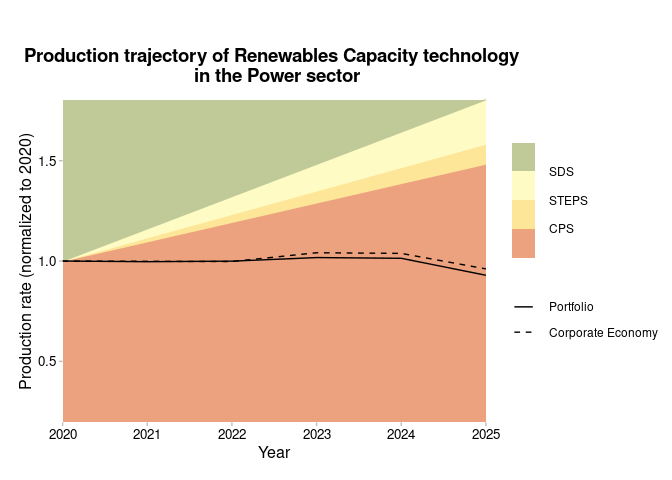
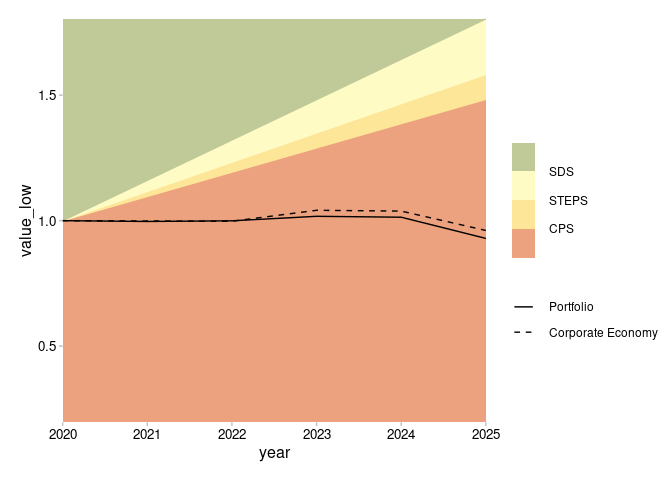
Update README

diff --git a/README.md b/README.md
@@ -35,6 +35,15 @@ errors?](https://gist.github.com/maurolepore/a0187be9d40aee95a43f20a85f4caed6#in
 ## Example
 
 ``` r
+library(tidyverse)
+#> ── Attaching packages ─────────────────────────────────────── tidyverse 1.3.0 ──
+#> ✓ ggplot2 3.3.3     ✓ purrr   0.3.4
+#> ✓ tibble  3.1.0     ✓ dplyr   1.0.5
+#> ✓ tidyr   1.1.3     ✓ stringr 1.4.0
+#> ✓ readr   1.4.0     ✓ forcats 0.5.1
+#> ── Conflicts ────────────────────────────────────────── tidyverse_conflicts() ──
+#> x dplyr::filter() masks stats::filter()
+#> x dplyr::lag()    masks stats::lag()
 library(r2dii.plot.static)
 ```
 
@@ -43,7 +52,6 @@ library(r2dii.plot.static)
     data in banks’ format.
 
 ``` r
-example_data <- example_data
 example_data <- process_input_data(example_data)
 ```
 
@@ -52,38 +60,46 @@ example_data <- process_input_data(example_data)
 
 ``` r
 data_trajectory <- prepare_for_trajectory_chart(
-  example_data, 
-  sector_filter = "power", 
+  example_data,
+  sector_filter = "power",
   technology_filter = "renewablescap",
-  region_filter = "global", 
+  region_filter = "global",
   scenario_source_filter = "demo_2020",
-  value_name = "production", 
+  value_name = "production",
   end_year_filter = 2025,
   normalize_to_start_year = TRUE
 )
 
-scenario_specs <- dplyr::tibble(
+scenario_specs <- tibble(
   scenario = c("sds", "sps", "cps", "worse"),
   color = c("#9CAB7C", "#FFFFCC", "#FDE291", "#E07B73"),
   label = c("SDS", "STEPS", "CPS", "worse")
 )
 
-main_line_metric <- dplyr::tibble(metric = "projected", label = "Portfolio")
-additional_line_metrics <- data.frame(
+main_line_metric <- tibble(
+  metric = "projected",
+  label = "Portfolio"
+)
+
+additional_line_metrics <- tibble(
   metric = "corporate_economy",
   label = "Corporate Economy"
 )
 
-plot <- plot_trajectory(data_trajectory,
-  plot_title = "Production trajectory of Renewables Capacity technology \n in the Power sector",
-  x_title = "Year", y_title = "Production rate (normalized to 2020)",
+plot_trajectory(
+  data_trajectory,
   scenario_specs_good_to_bad = scenario_specs,
-  main_line_metric, additional_line_metrics
-)
+  main_line_metric = main_line_metric,
+  additional_line_metrics = additional_line_metrics
+) +
+  labs(
+    title = "Production trajectory",
+    subtitle = "Renewables Capacity technology in the Power, sector",
+    x = "Year",
+    y = "Production rate (normalized to 2020)"
+  )
 #> Warning: partial match of 'height' to 'heights'
 #> Warning: partial match of 'width' to 'widths'
-
-plot
 ```
 
 <img src="man/figures/README-unnamed-chunk-4-1.png" width="100%" style="display: block; margin: auto auto auto 0;" />
@@ -95,47 +111,59 @@ plot
 -   `plot_techmix()` create a techmix chart in a ggplot object.
 
 ``` r
-data_techmix_power <- prepare_for_techmix_chart(example_data,
+data_techmix_power <- prepare_for_techmix_chart(
+  example_data,
   sector_filter = "power",
-  years_filter = c(2020, 2025), region_filter = "global",
+  years_filter = c(2020, 2025),
+  region_filter = "global",
   scenario_source_filter = "demo_2020",
-  scenario_filter = "sds", value_name = "technology_share"
+  scenario_filter = "sds",
+  value_name = "technology_share"
 )
 
 tech_colors_power <- get_r2dii_technology_colours("power")
-bars_labels_specs <- dplyr::tibble(
+bars_labels_specs <- tibble(
   metric_type = c(
-    "portfolio_2020", "benchmark_2020", "portfolio_2025",
-    "benchmark_2025", "scenario_2025"
+    "portfolio_2020",
+    "benchmark_2020",
+    "portfolio_2025",
+    "benchmark_2025",
+    "scenario_2025"
   ),
   label = c(
-    "Portfolio 2020", "Benchmark 2020", "Portfolio 2025",
-    "Benchmark 2025", "Target SDS 2025"
+    "Portfolio 2020",
+    "Benchmark 2020",
+    "Portfolio 2025",
+    "Benchmark 2025",
+    "Target SDS 2025"
   )
 )
 
-plot_techmix_power <- plot_techmix(data_techmix_power,
+plot_techmix(
+  data_techmix_power,
   plot_title = "Technology mix for the Power sector",
   show_legend = TRUE,
-  tech_colors_power,
-  bars_labels_specs
+  df_tech_colours = tech_colors_power,
+  df_bar_specs = bars_labels_specs
 )
-plot_techmix_power
 ```
 
 <img src="man/figures/README-unnamed-chunk-5-1.png" width="100%" style="display: block; margin: auto auto auto 0;" />
 
 ``` r
-power_colors_custom <- dplyr::tibble(
+power_colors_custom <- tibble(
   technology = c("coalcap", "oilcap", "gascap", "nuclearcap", "hydrocap", "renewablescap"),
   label = c("Coal Capacity", "Oil Capacity", "Gas Capacity", "Nuclear Capacity", "Hydro Capacity", "Renewables Capacity"),
   colour = c("black", "brown", "grey", "red", "blue", "green4")
 )
 
-plot_techmix_custom_col <- plot_techmix(data_techmix_power, "Technology mix for the Power sector",
-  show_legend = TRUE, power_colors_custom, bars_labels_specs
+plot_techmix(
+  data_techmix_power,
+  "Technology mix for the Power sector",
+  show_legend = TRUE,
+  df_tech_colours = power_colors_custom,
+  df_bar_specs = bars_labels_specs
 )
-plot_techmix_custom_col
 ```
 
 <img src="man/figures/README-unnamed-chunk-5-2.png" width="100%" style="display: block; margin: auto auto auto 0;" />
@@ -145,26 +173,32 @@ plot_techmix_custom_col
 -   `plot_timeline()` create a time line plot.
 
 ``` r
-data_sda_cement <- prepare_for_timeline(sda_target,
-                                      sector_filter = "cement",
-                                      year_start = 2020,
-                                      year_end = 2050,
-                                      column_line_names = "emission_factor_metric",
-                                      value_to_plot = "emission_factor_value",
-                                      extrapolate_missing_values = TRUE)
-
-lines_specs <- dplyr::tibble(
-  line_name = c("projected", "corporate_economy", "target_demo", "adjusted_scenario_demo"),
-  label = c("Projected", "Corporate Economy", "Target Demo", "Adjusted Scenario Demo"),
-  r2dii_colour_name = c("dark_blue", "green","grey","orange")
+data_sda_cement <- prepare_for_timeline(
+  sda_target,
+  sector_filter = "cement",
+  year_start = 2020,
+  year_end = 2050,
+  column_line_names = "emission_factor_metric",
+  value_to_plot = "emission_factor_value",
+  extrapolate_missing_values = TRUE
 )
 
-plot <- plot_timeline(data_sda_cement, lines_specs = lines_specs,
-                           plot_title = "Emission intensity trend for Cement.",
-                           x_title = "Year",
-                           y_title = "Tons of CO2 per ton")
+lines_specs <- tibble(
+  line_name = c("projected", "corporate_economy", "target_demo", "adjusted_scenario_demo"),
+  label = c("Projected", "Corporate Economy", "Target Demo", "Adjusted Scenario Demo"),
+  r2dii_colour_name = c("dark_blue", "green", "grey", "orange")
+)
 
-plot + ggplot2::labs(caption = "Dashed line is an extrapolation of the last value in the dataset.")
+plot_timeline(
+  data_sda_cement,
+  lines_specs = lines_specs
+) +
+  labs(
+    title = "Emission intensity trend for Cement.",
+    x = "Year",
+    y = "Tons of CO2 per ton",
+    caption = "Dashed line is an extrapolation of the last value in the dataset."
+  )
 ```
 
 <img src="man/figures/README-unnamed-chunk-6-1.png" width="100%" style="display: block; margin: auto auto auto 0;" />
